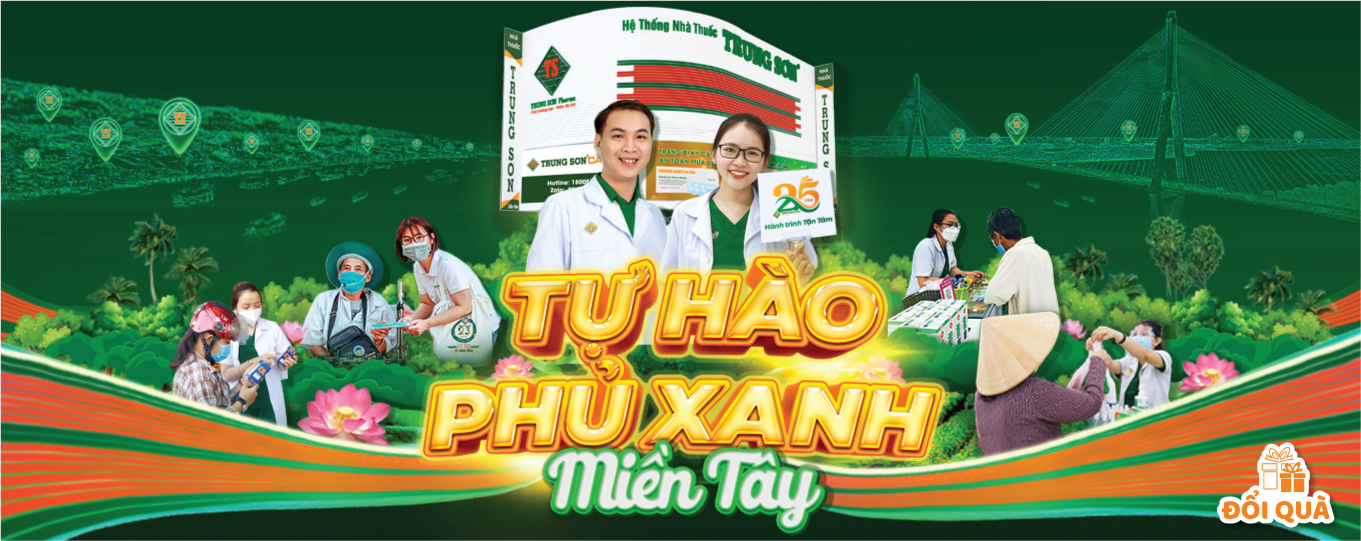
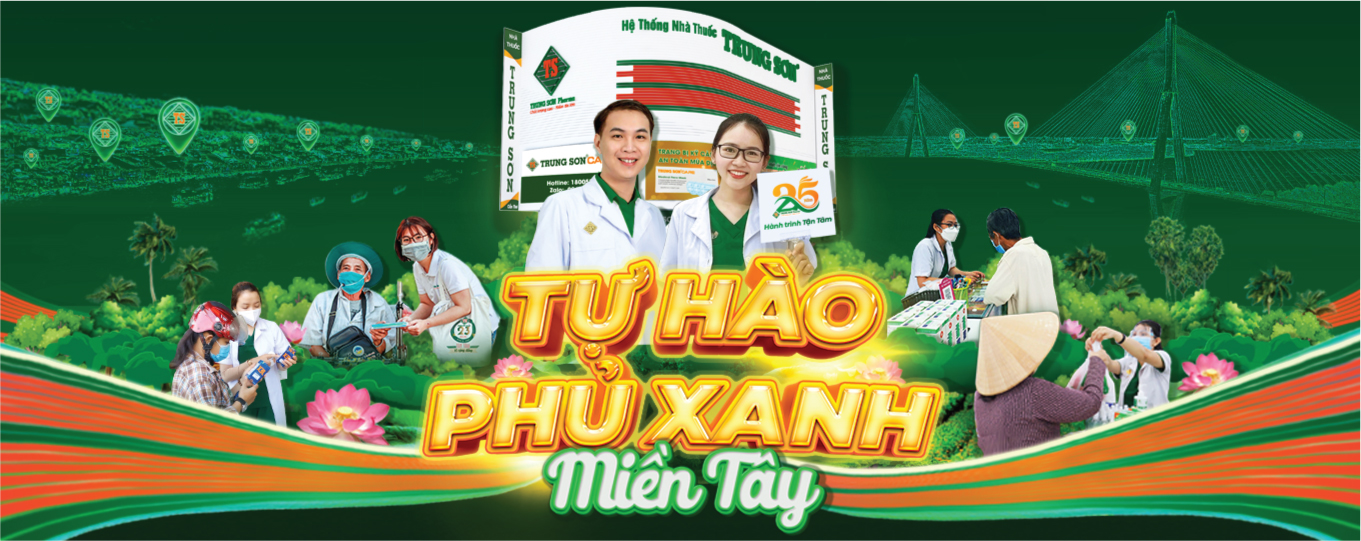
update

diff --git a/html_2022_phuxanh/css/home.css b/html_2022_phuxanh/css/home.css
@@ -25,7 +25,25 @@
 .banner-box .swiper-pagination-bullet-active::before {
     background-color: #5DEDAB;
 }
-
+.icon-exchange{
+    position: absolute;
+    bottom: 0;
+    right: 0;
+    width: 9.33823%;
+    height: auto;
+    background: url(../images/icon-exchange.png);
+    background-size: 100% auto;
+    z-index: 1;
+    cursor: pointer;
+}
+.icon-exchange::before{
+    content: '';
+    position: relative;
+    display: block;
+    width: 100%;
+    height: auto;
+    padding-top: 75.5905%;
+}
 
 /* journeys */
 .journeys-box{

diff --git a/html_2022_phuxanh/index.html b/html_2022_phuxanh/index.html
@@ -106,6 +106,7 @@
                         </div>
                         <div class="swiper-pagination"></div>
                     </div>
+                    <div class="icon-exchange open-popup" data-href="popup-form.html"></div>
                 </div>
             </div>
 
